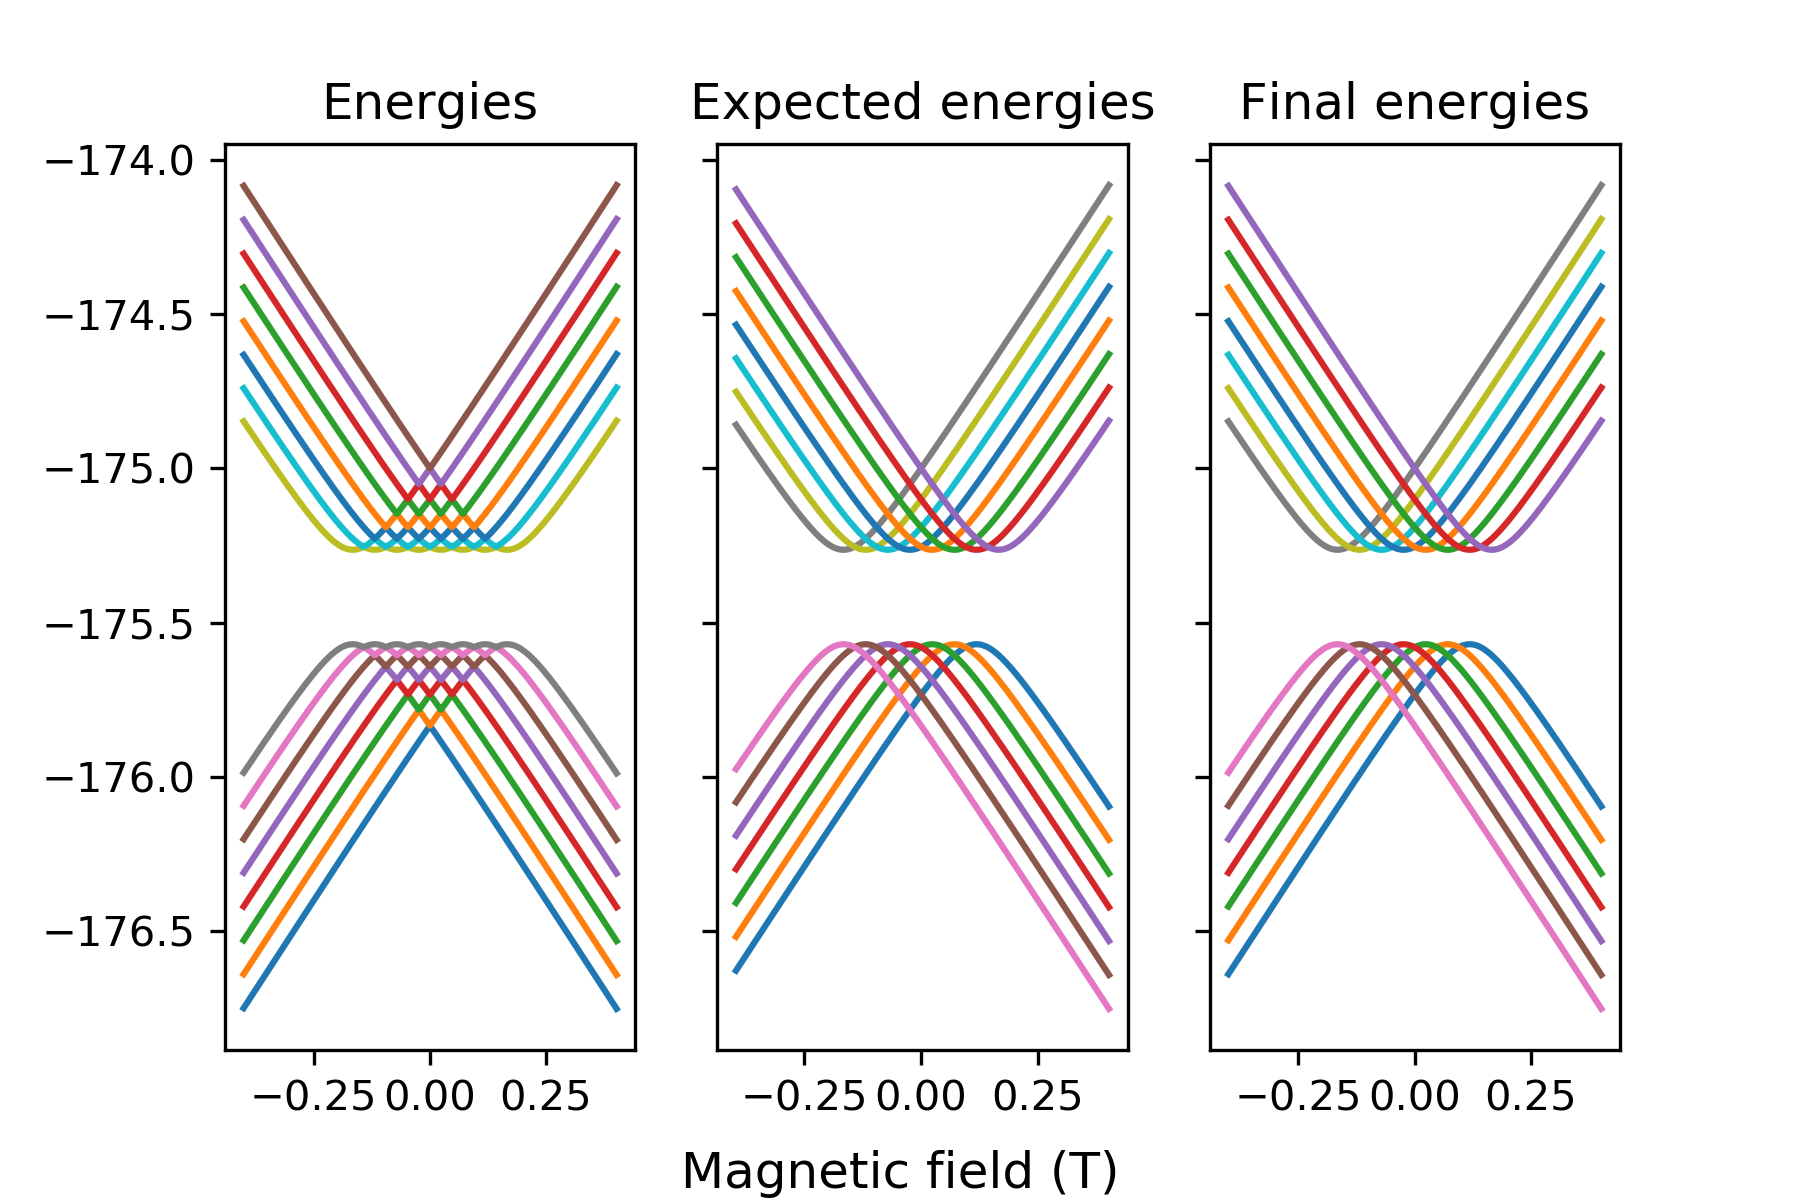
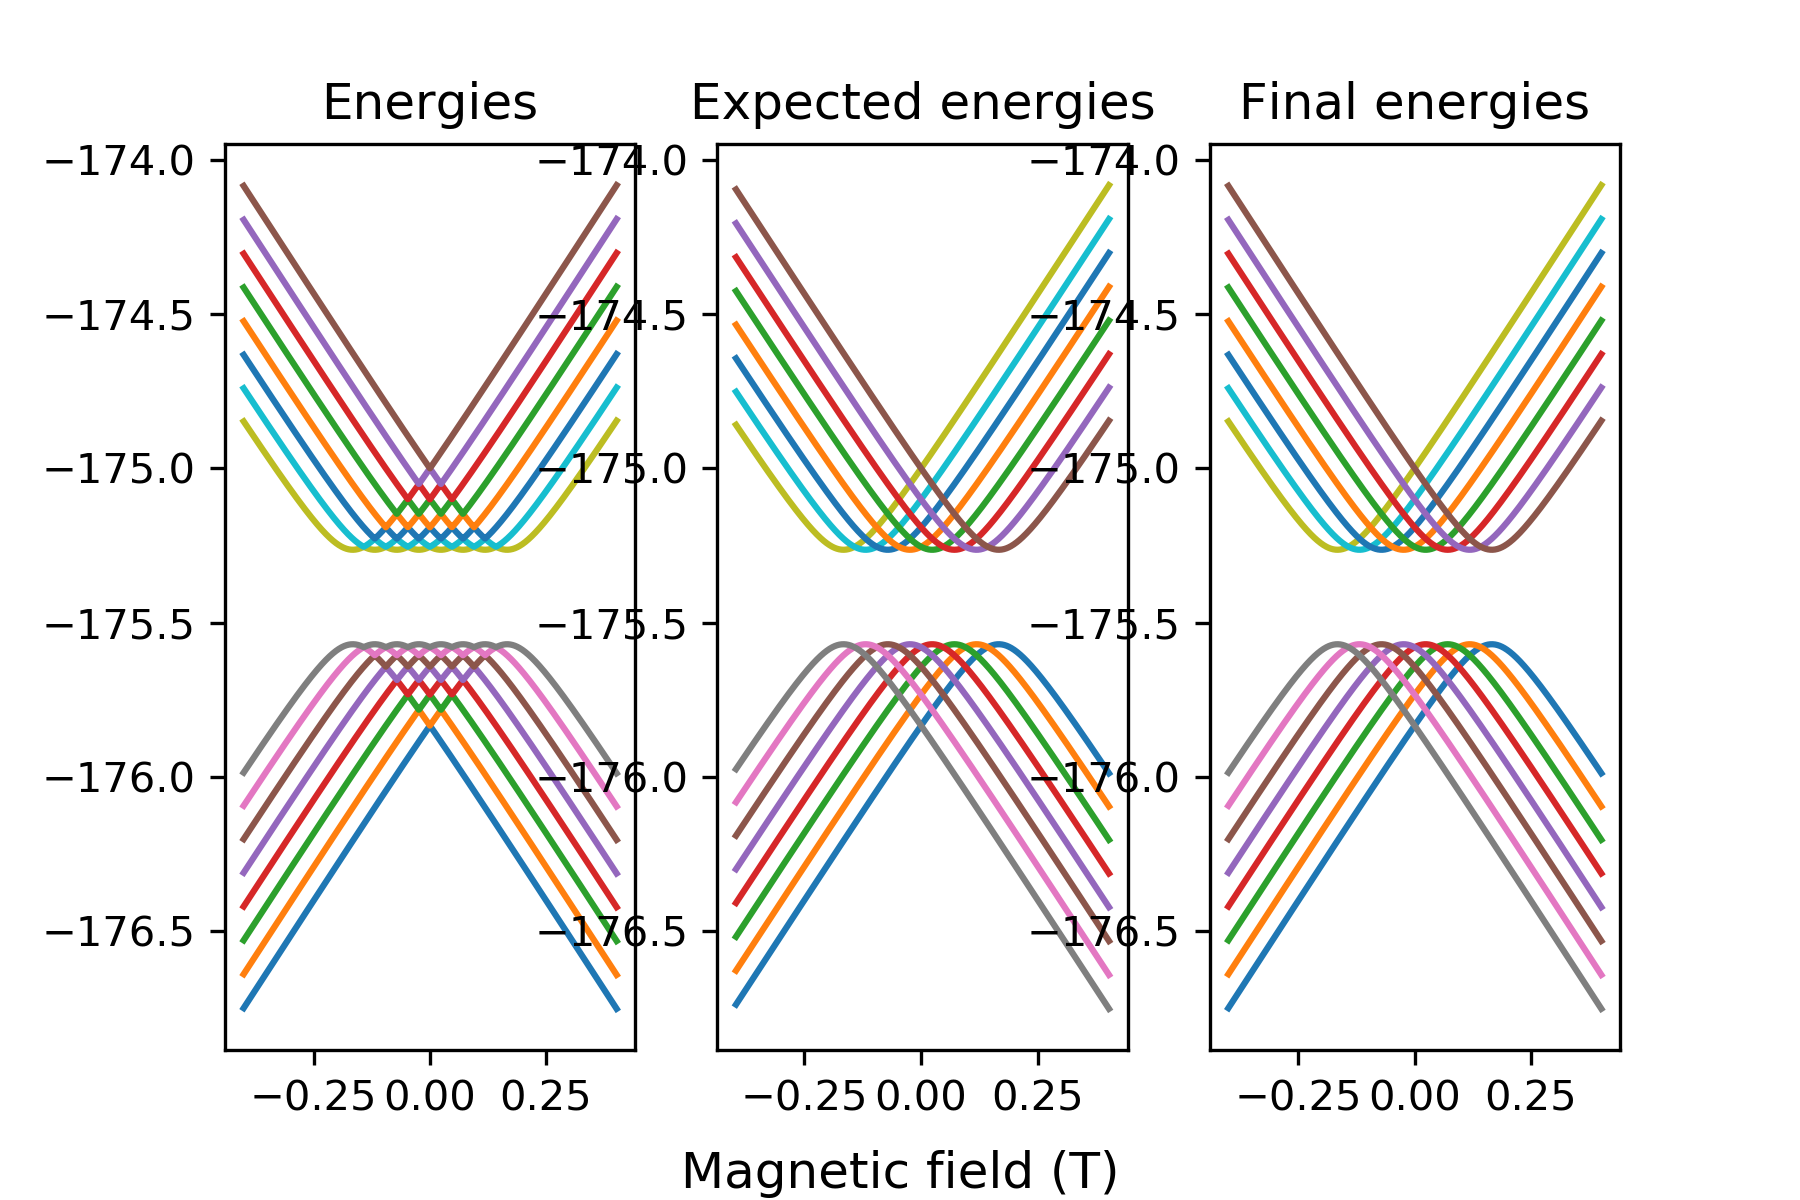
Stable version - fixed bug in search function

diff --git a/devel/main.py b/devel/main.py
@@ -62,7 +62,7 @@ def search(v0, v1, v2, list_e): #index = pos-1
         if e0 == 'u':
             continue
         e0 = round(float(e0), 7)
-        diff = abs(abs(float(v0)) - abs(float(e0)))
+        diff = abs(float(v0) - float(e0))
         if  diff < 10**-6:
             num.append(i)
         else:
@@ -251,7 +251,7 @@ plt.ylabel(u'Energy (cm-1)')
 plt.savefig('plots/plot_ene.png', dpi = 300)
 plt.show()
 
-
+# In[]]:
 # Check if res_path exists otherwise creates it
 resdir_path = path + 'res/'
 if not os.path.exists(resdir_path):
@@ -421,8 +421,14 @@ for i0 in range(dim[1]):
                 order_df.iloc[i1+1, i0] = int(num[0])+1
             else:
                 print 'ninguno coincide'
+                print 'v0'
+                print v0
+                print 'H_value'
+                print H_value
+                print 'list'
+                print s_es
                 order_df.iloc[i1+1, i0] = 'nan'#int(num[0])+1
-                pass
+                pass                
             
             five_E.pop(0)
             five_H.pop(0)
@@ -466,12 +472,12 @@ final_df.to_csv(path + 'res/final.txt', header = lvls_list, sep='\t', na_rep='na
 
 # In[]:
 # Visual checking of results final vs. expected
-fig, (ax1, ax2, ax3) = plt.subplots(1, 3, sharey = True)
+fig, (ax1, ax2, ax3) = plt.subplots(1, 3)#, sharey = True)
 ax1.plot(ene[:,0], ene_df.iloc[:,0:])
 ax1.set_title('Energies')
-ax2.plot(expected_df.index, expected_df.iloc[:,1:])
+ax2.plot(expected_df.index, expected_df.iloc[:,0:])
 ax2.set_title('Expected energies')
-ax3.plot(final_df.index, final_df.iloc[:,1:])
+ax3.plot(final_df.index, final_df.iloc[:,0:])
 ax3.set_title('Final energies')
 fig.text(0.5,0.01, 'Magnetic field (T)', ha='center', fontsize = 12)
 
@@ -660,7 +666,7 @@ for f in ldir:
         H_poly = H_values[H_poly_ind + 2]
         H_poly2 = H_values[H_poly_ind2 + 2]
         
-        # 
+        # Assign data
         k0_a = dic[a][H_poly][0]
         k1_a = dic[a][H_poly][1]
         k2_a = dic[a][H_poly][2]
